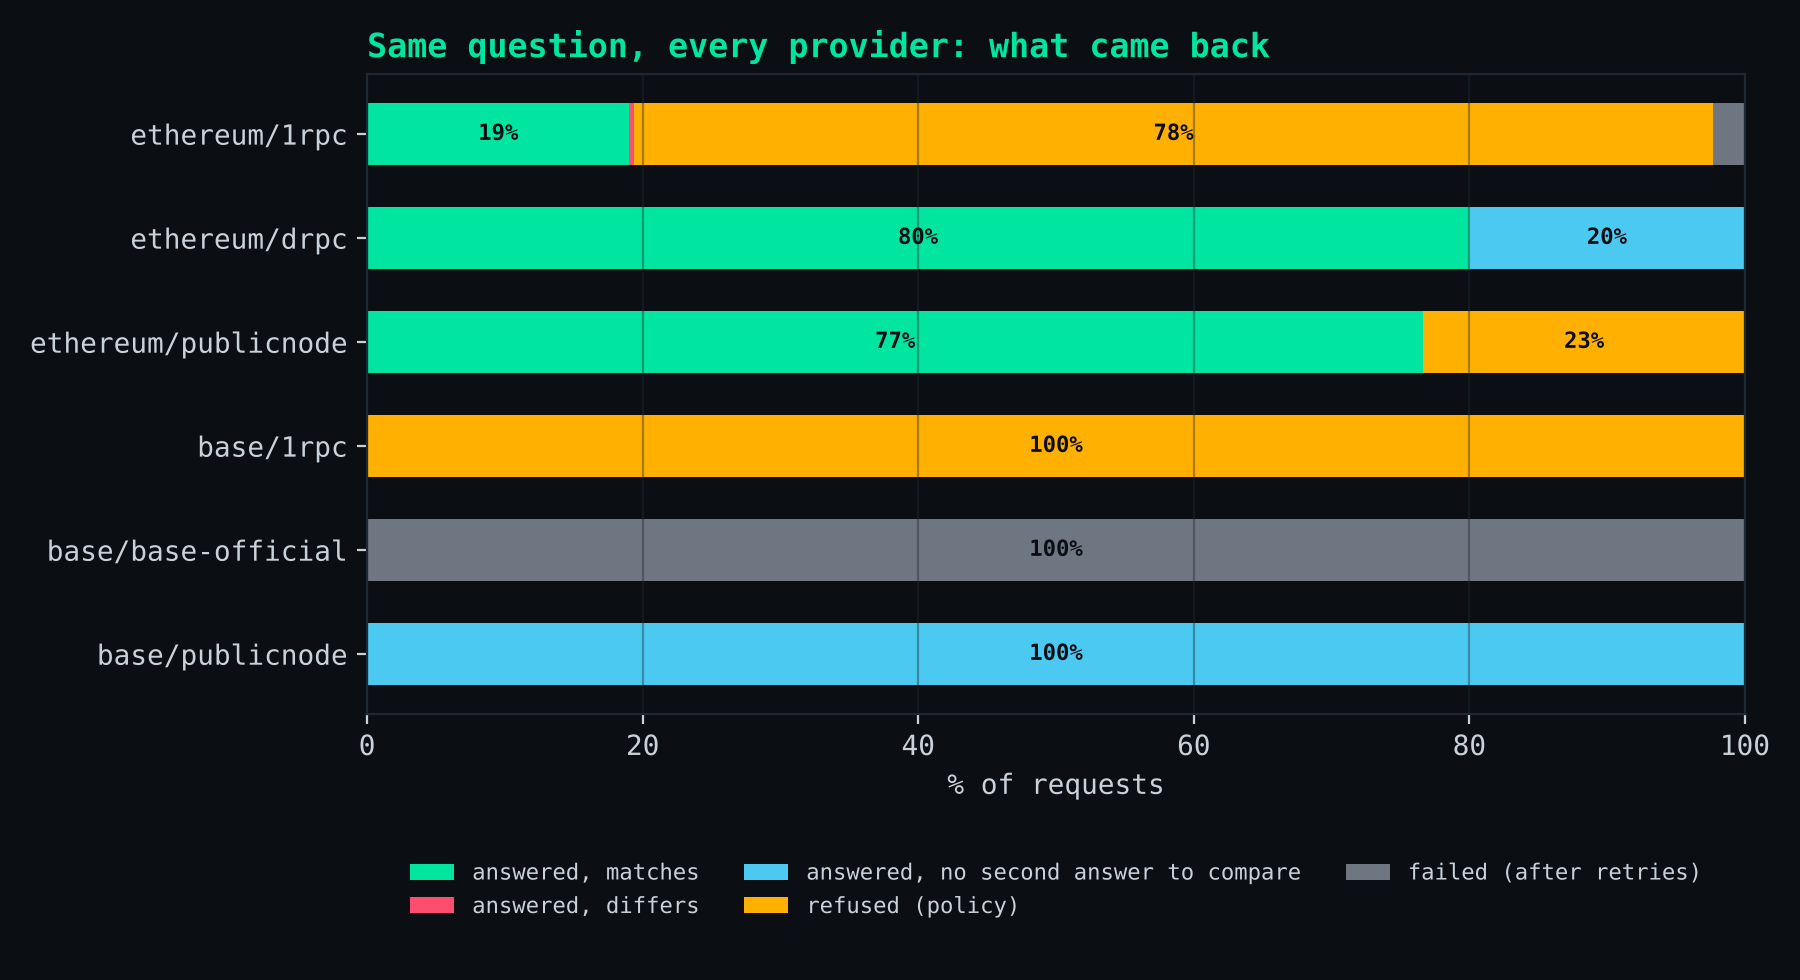
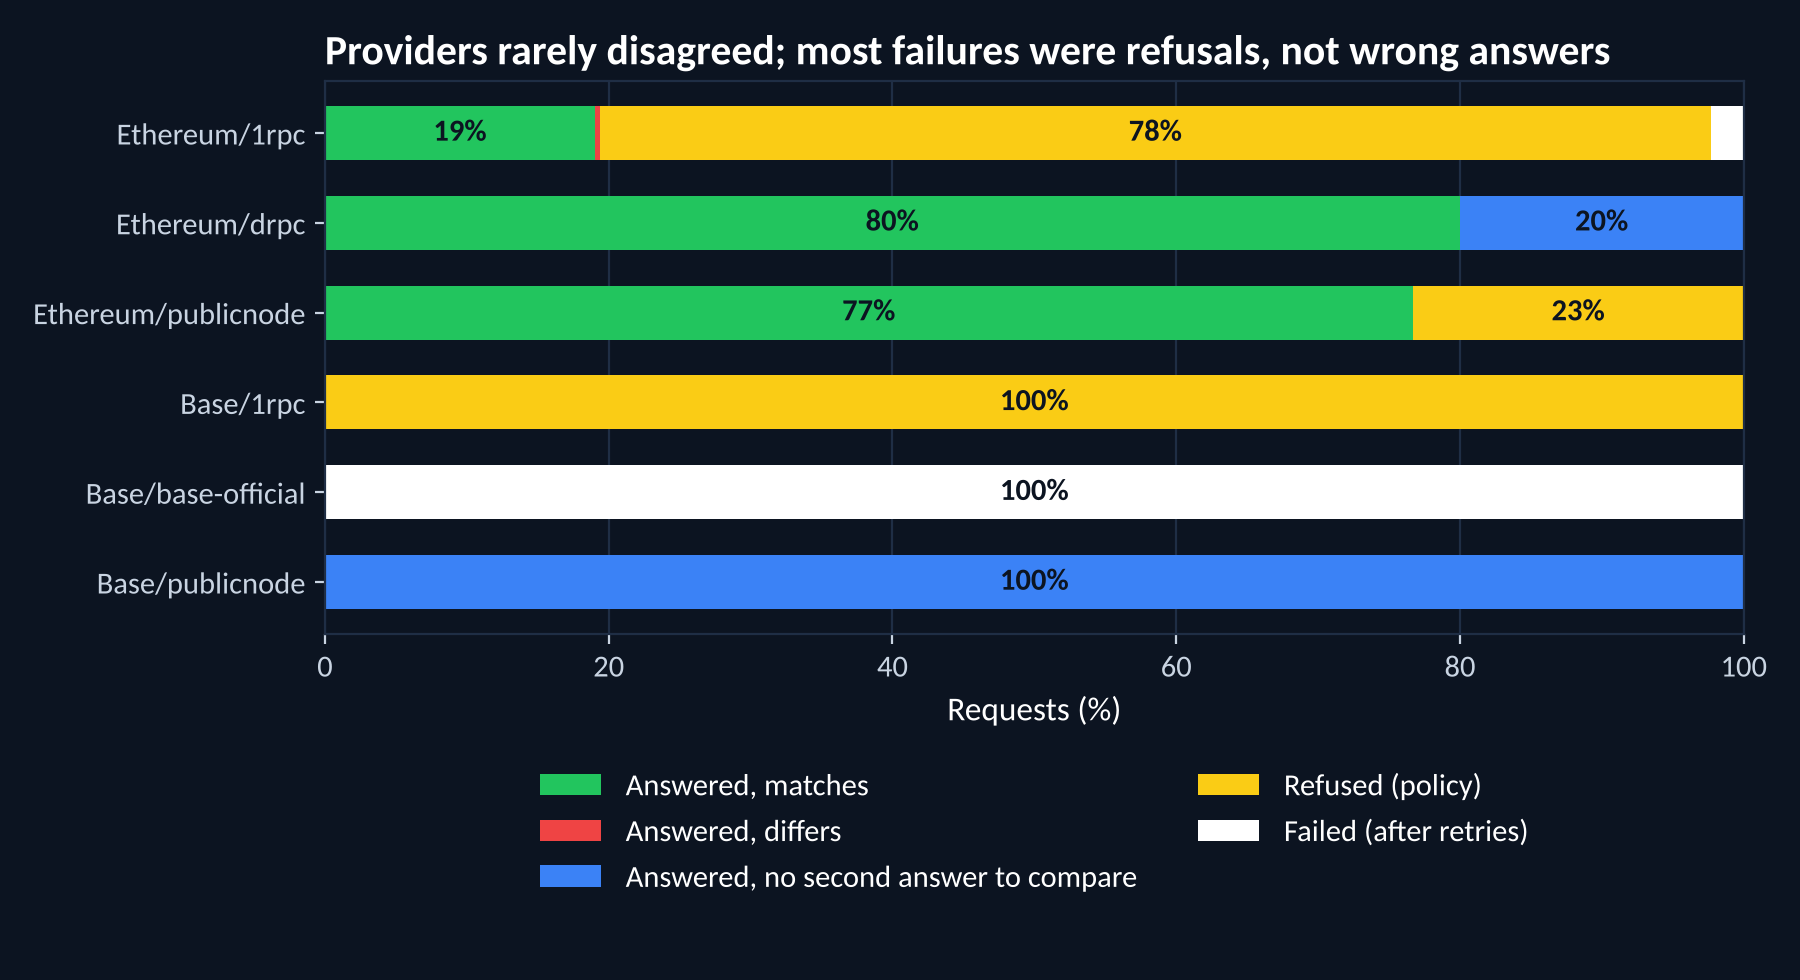
Solid colours, Carlito and capitalised labels in charts and summary

diff --git a/src/chain_evidence/report.py b/src/chain_evidence/report.py
@@ -7,8 +7,10 @@ from collections import Counter, defaultdict
 from .providers import ROOT
 
 RES, IMG = ROOT / "results", ROOT / "docs" / "img"
-BG, FG, GRID = "#0b0f14", "#c9d1d9", "#1f2933"
-GREEN, AMBER, RED, BLUE, GREY = "#00e5a0", "#ffb000", "#ff4d6d", "#4cc9f0", "#6e7681"
+# Portfolio chart style (BUILD_RULES.md, "Charts"): solid colours, Carlito, capitalised labels.
+BG, FG, FG2, GRID = "#0C1421", "#FFFFFF", "#C9D4E2", "#1F2E45"
+BLUE, GREEN, RED, YELLOW, WHITE = "#3B82F6", "#22C55E", "#EF4444", "#FACC15", "#FFFFFF"
+CHAIN = {"ethereum": "Ethereum", "base": "Base"}
 POLICY = ("usage limit", "archive", "limited to", "must not exceed", "specify an address", "not supported on free",
           "discontinued", "not allowed", "personal token", "pruned")
 
@@ -98,9 +100,11 @@ def logs_stats(data, chain):
 
 def _style(plt):
     plt.rcParams.update({"figure.facecolor": BG, "axes.facecolor": BG, "savefig.facecolor": BG,
-                         "text.color": FG, "axes.labelcolor": FG, "xtick.color": FG, "ytick.color": FG,
-                         "axes.edgecolor": GRID, "grid.color": GRID, "font.family": "monospace",
-                         "font.size": 10, "axes.titleweight": "bold", "axes.titlesize": 12})
+                         "text.color": FG, "axes.labelcolor": FG, "xtick.color": FG2, "ytick.color": FG2,
+                         "axes.edgecolor": GRID, "grid.color": GRID, "font.family": "Carlito",
+                         "font.size": 11, "axes.titleweight": "bold", "axes.titlesize": 15, "axes.labelsize": 12,
+                         "xtick.labelsize": 11, "ytick.labelsize": 11, "legend.fontsize": 11, "legend.labelcolor": FG,
+                         "axes.axisbelow": True})
 
 
 def charts(stats, roots):
@@ -112,29 +116,29 @@ def charts(stats, roots):
     made = []
     # 1. hero: what each provider did with every request
     cats = [("answered, matches", GREEN), ("answered, differs", RED),
-            ("answered, no second answer to compare", BLUE), ("refused (policy)", AMBER),
-            ("failed (after retries)", GREY)]
+            ("answered, no second answer to compare", BLUE), ("refused (policy)", YELLOW),
+            ("failed (after retries)", WHITE)]
     labels, data = [], []
     for s in stats:
         for prov, o in sorted(s["outcomes"].items()):
-            labels.append(f"{s['chain']}/{prov}")
+            labels.append(f"{CHAIN[s['chain']]}/{prov}")
             data.append(o)
     fig, ax = plt.subplots(figsize=(9, 0.55 * len(labels) + 1.6))
     left = [0] * len(labels)
     for cat, col in cats:
         vals = [d.get(cat, 0) / max(1, sum(d.values())) * 100 for d in data]
-        ax.barh(labels, vals, left=left, color=col, label=cat, height=0.6)
+        ax.barh(labels, vals, left=left, color=col, label=cat[0].upper() + cat[1:], height=0.6)
         for i, v in enumerate(vals):
             if v >= 7:
-                ax.text(left[i] + v / 2, i, f"{v:.0f}%", ha="center", va="center", color=BG, fontsize=8,
+                ax.text(left[i] + v / 2, i, f"{v:.0f}%", ha="center", va="center", color=BG, fontsize=11,
                         fontweight="bold")
         left = [a + b for a, b in zip(left, vals)]
     ax.invert_yaxis()
     ax.set_xlim(0, 100)
-    ax.set_xlabel("% of requests")
-    ax.set_title("Same question, every provider: what came back", loc="left", color=GREEN)
-    ax.legend(ncol=3, loc="upper center", bbox_to_anchor=(0.5, -0.2), frameon=False, fontsize=8)
-    ax.grid(axis="x", alpha=0.4)
+    ax.set_xlabel("Requests (%)")
+    ax.set_title("Providers rarely disagreed; most failures were refusals, not wrong answers", loc="left")
+    ax.legend(ncol=2, loc="upper center", bbox_to_anchor=(0.5, -0.2), frameon=False)
+    ax.grid(axis="x")
     fig.tight_layout()
     fig.savefig(IMG / "provider_outcomes.png", dpi=200)
     plt.close(fig)
@@ -147,15 +151,17 @@ def charts(stats, roots):
         for pr in s["per_run"]:
             ax.errorbar([x], [pr["rate"] * 100], yerr=[[100 * (pr["rate"] - pr["lo"])], [100 * (pr["hi"] - pr["rate"])]],
                         fmt="o", color=col, ecolor=col, capsize=5, ms=7)
-            ax.text(x + 0.08, pr["rate"] * 100, f" {pr['k']}/{pr['n']}", va="center", fontsize=8)
+            ax.text(x + 0.08, pr["rate"] * 100, f" {pr['k']}/{pr['n']}", va="center", fontsize=11)
             ticks.append(x)
-            names.append(f"{s['chain']}\n{pr['run_id'][9:13]}Z")
+            names.append(f"{CHAIN[s['chain']]}\n{pr['run_id'][9:13]}Z")
             x += 1
         x += 0.6
-    ax.set_xticks(ticks, names, fontsize=8)
-    ax.set_ylabel("finalised ranges that disagree (%)")
-    ax.set_title("Disagreement rate per run, 95% Wilson interval", loc="left", color=GREEN)
-    ax.grid(axis="y", alpha=0.4)
+    ax.set_xticks(ticks, names, fontsize=11)
+    ax.set_ylabel("Finalised ranges that disagree (%)")
+    worst = max((pr for s in stats for pr in s["per_run"]), key=lambda pr: pr["rate"], default=None)
+    ax.set_title(f"The worst run had {worst['k']} of {worst['n']} finalised ranges disagree (95% Wilson interval)"
+                 if worst else "Disagreement rate per run (95% Wilson interval)", loc="left")
+    ax.grid(axis="y")
     ax.set_ylim(bottom=0)
     fig.tight_layout()
     fig.savefig(IMG / "disagreement_rate.png", dpi=200)
@@ -180,13 +186,14 @@ def charts(stats, roots):
         fig, ax = plt.subplots(figsize=(9, 0.5 * len(agg) + 1.4))
         ks = sorted(agg)
         mx = [max(agg[k]) for k in ks]
-        ax.barh(ks, mx, color=[RED if m > 64 else GREEN for m in mx], height=0.55)
+        ax.barh([CHAIN[k.split("/")[0]] + k[k.index("/"):] for k in ks], mx, color=[RED if m > 64 else GREEN for m in mx],
+                height=0.55)
         for i, k in enumerate(ks):
-            ax.text(mx[i], i, f"  max {mx[i]} blocks behind (n={len(agg[k])} runs)", va="center", fontsize=8)
+            ax.text(mx[i], i, f"  Max {mx[i]} blocks behind (n={len(agg[k])} runs)", va="center", fontsize=11)
         ax.invert_yaxis()
-        ax.set_xlabel("blocks behind the most advanced provider's `finalized` head")
-        ax.set_title("How stale is each provider's `finalized` tag?", loc="left", color=GREEN)
-        ax.grid(axis="x", alpha=0.4)
+        ax.set_xlabel("Blocks behind the most advanced provider's `finalized` head")
+        ax.set_title(f"A provider's `finalized` head can lag up to {max(mx):,} blocks behind the others", loc="left")
+        ax.grid(axis="x")
         ax.set_xlim(0, max(mx) * 1.6 + 5)
         fig.tight_layout()
         fig.savefig(IMG / "finalized_lag.png", dpi=200)
@@ -206,17 +213,20 @@ def charts(stats, roots):
             else:
                 agg[k]["root mismatch"] += 1
         ks = sorted(agg)
-        fig, ax = plt.subplots(figsize=(9, 0.5 * len(ks) + 1.6))
+        fig, ax = plt.subplots(figsize=(10, 0.5 * len(ks) + 1.6))
         left = [0] * len(ks)
         for cat, col in (("all roots reproduce", GREEN), ("root mismatch", RED),
-                         ("null receipts (success, no data)", AMBER), ("not checked", GREY)):
+                         ("null receipts (success, no data)", YELLOW), ("not checked", WHITE)):
             vals = [agg[k].get(cat, 0) for k in ks]
-            ax.barh(ks, vals, left=left, color=col, label=cat, height=0.55)
+            ax.barh([CHAIN[k.split("/")[0]] + k[k.index("/"):] for k in ks], vals, left=left, color=col,
+                    label=cat[0].upper() + cat[1:], height=0.55)
             left = [a + b for a, b in zip(left, vals)]
         ax.invert_yaxis()
-        ax.set_xlabel("blocks")
-        ax.set_title("Header hash + transactionsRoot + receiptsRoot recomputed locally", loc="left", color=GREEN)
-        ax.legend(ncol=2, loc="upper center", bbox_to_anchor=(0.5, -0.25), frameon=False, fontsize=8)
+        ax.set_xlabel("Blocks")
+        ax.set_title("No checked block failed to reproduce its header hash, transactionsRoot and receiptsRoot"
+                     if not any(a.get("root mismatch") for a in agg.values())
+                     else "Header hash, transactionsRoot and receiptsRoot recomputed locally", loc="left")
+        ax.legend(ncol=2, loc="upper center", bbox_to_anchor=(0.5, -0.25), frameon=False)
         fig.tight_layout()
         fig.savefig(IMG / "receipts_root_proofs.png", dpi=200)
         plt.close(fig)
@@ -224,18 +234,18 @@ def charts(stats, roots):
     # 5. how deep does publicnode keep receipts? (sampled Ethereum transactions)
     tx = [r for r in rows("tx_survey.csv") if r["chain"] == "ethereum" and r.get("block") and r.get("finalized_floor")]
     if tx:
-        fig, ax = plt.subplots(figsize=(9, 2.6))
-        for null, col, lab in ((False, GREEN, "receipt returned"), (True, RED, "`null` receipt (success, no data)")):
+        fig, ax = plt.subplots(figsize=(10, 3))
+        for null, col, lab in ((False, GREEN, "Receipt returned"), (True, RED, "`null` receipt (success, no data)")):
             xs = [(int(r["finalized_floor"]) - int(r["block"])) / 7200 for r in tx
                   if ("publicnode" in r.get("null_receipt_from", "")) == null]
-            ax.scatter(xs, [0.5 + (0.12 if null else -0.12)] * len(xs), s=46, color=col, alpha=0.85,
+            ax.scatter(xs, [0.5 + (0.12 if null else -0.12)] * len(xs), s=46, color=col,
                        label=f"{lab} (n={len(xs)})", edgecolors=BG)
         ax.set_yticks([])
         ax.set_ylim(0, 1)
-        ax.set_xlabel("age of the transaction's block (days behind the finalised head, 7,200 blocks/day)")
-        ax.set_title("publicnode eth_getTransactionReceipt: silent `null` past ~6 days", loc="left", color=GREEN)
-        ax.legend(loc="upper left", frameon=False, fontsize=8)
-        ax.grid(axis="x", alpha=0.4)
+        ax.set_xlabel("Age of the transaction's block (days behind the finalised head, 7,200 blocks/day)")
+        ax.set_title("publicnode silently returns `null` receipts for blocks older than about 6 days", loc="left")
+        ax.legend(loc="upper left", frameon=False)
+        ax.grid(axis="x")
         fig.tight_layout()
         fig.savefig(IMG / "receipt_depth.png", dpi=200)
         plt.close(fig)
@@ -327,12 +337,13 @@ def main():
     }
     for s in stats:
         summary["metrics"] += [
-            {"label": f"{s['chain']}: finalised ranges compared", "value": s["comparable"]},
-            {"label": f"{s['chain']}: disagreement rate", "value": f"{100 * s['rate']:.1f}% (95% CI {100 * s['ci'][0]:.1f}–{100 * s['ci'][1]:.1f}%)"},
-            {"label": f"{s['chain']}: empty successes (0 logs where logs exist)", "value": s["empty_success"]},
+            {"label": f"{CHAIN[s['chain']]} finalised ranges compared", "value": s["comparable"]},
+            {"label": f"{CHAIN[s['chain']]} disagreement rate", "value": f"{100 * s['rate']:.1f}% (95% CI {100 * s['ci'][0]:.1f}–{100 * s['ci'][1]:.1f}%)"},
+            {"label": f"{CHAIN[s['chain']]} empty successes (0 logs where logs exist)", "value": s["empty_success"]},
         ]
     for k, v in sorted(rs.items()):
-        summary["metrics"].append({"label": f"{k}: blocks whose receipts reproduce receiptsRoot",
+        chain, prov = k.split("/", 1)
+        summary["metrics"].append({"label": f"{CHAIN[chain]} blocks from {prov} whose receipts reproduce receiptsRoot",
                                    "value": f"{v.get('rroot_ok', 0)}/{v.get('checked', 0)}"})
     (RES / "summary.json").write_text(json.dumps(summary, indent=1, default=str))
     print((RES / "summary.md").read_text())

diff --git a/scripts/fill_readme.py b/scripts/fill_readme.py
@@ -112,9 +112,9 @@ S["viz"] = [
     {"title": "Recent blocks always agreed; older blocks did not", "unit": "%", "bars": [
         {"label": f"Recent ({rec['comparable']} ranges)", "value": round(100 * rec["disagreements"] / rec["comparable"], 1), "tone": "good"},
         {"label": f"Older than about 6 days ({deep['comparable']} ranges)", "value": round(100 * deep["disagreements"] / deep["comparable"], 1), "tone": "bad"}]},
-    {"title": "What three providers answered to the same Ethereum questions", "unit": "count", "bars": [
+    {"title": "Most answers from three Ethereum providers matched; refusals were the main failure", "unit": "count", "bars": [
         {"label": NAMES[k][0], "value": totals[k], "tone": NAMES[k][1]} for k in NAMES if k in totals]},
-    {"title": "Logs silently missing where receipt proofs show they exist", "unit": "count", "bars": [
+    {"title": "Only older ranges silently missed logs that receipt proofs show exist", "unit": "count", "bars": [
         {"label": "Recent ranges", "value": rec["missing_logs"], "tone": "good"},
         {"label": "Older ranges", "value": deep["missing_logs"], "tone": "bad"}]},
 ]
